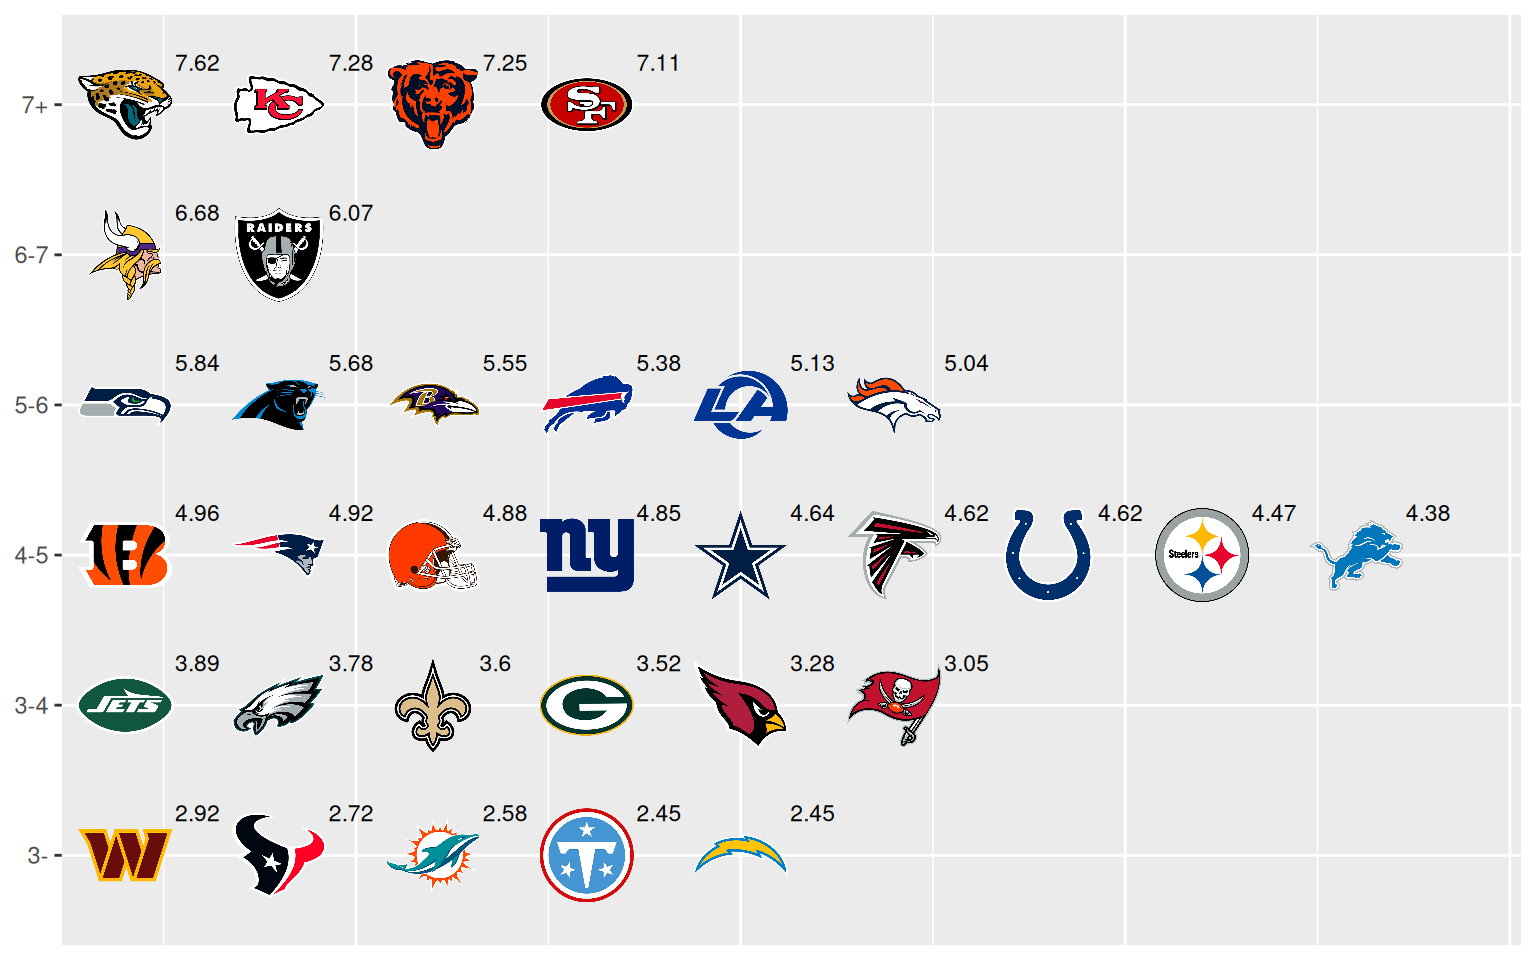
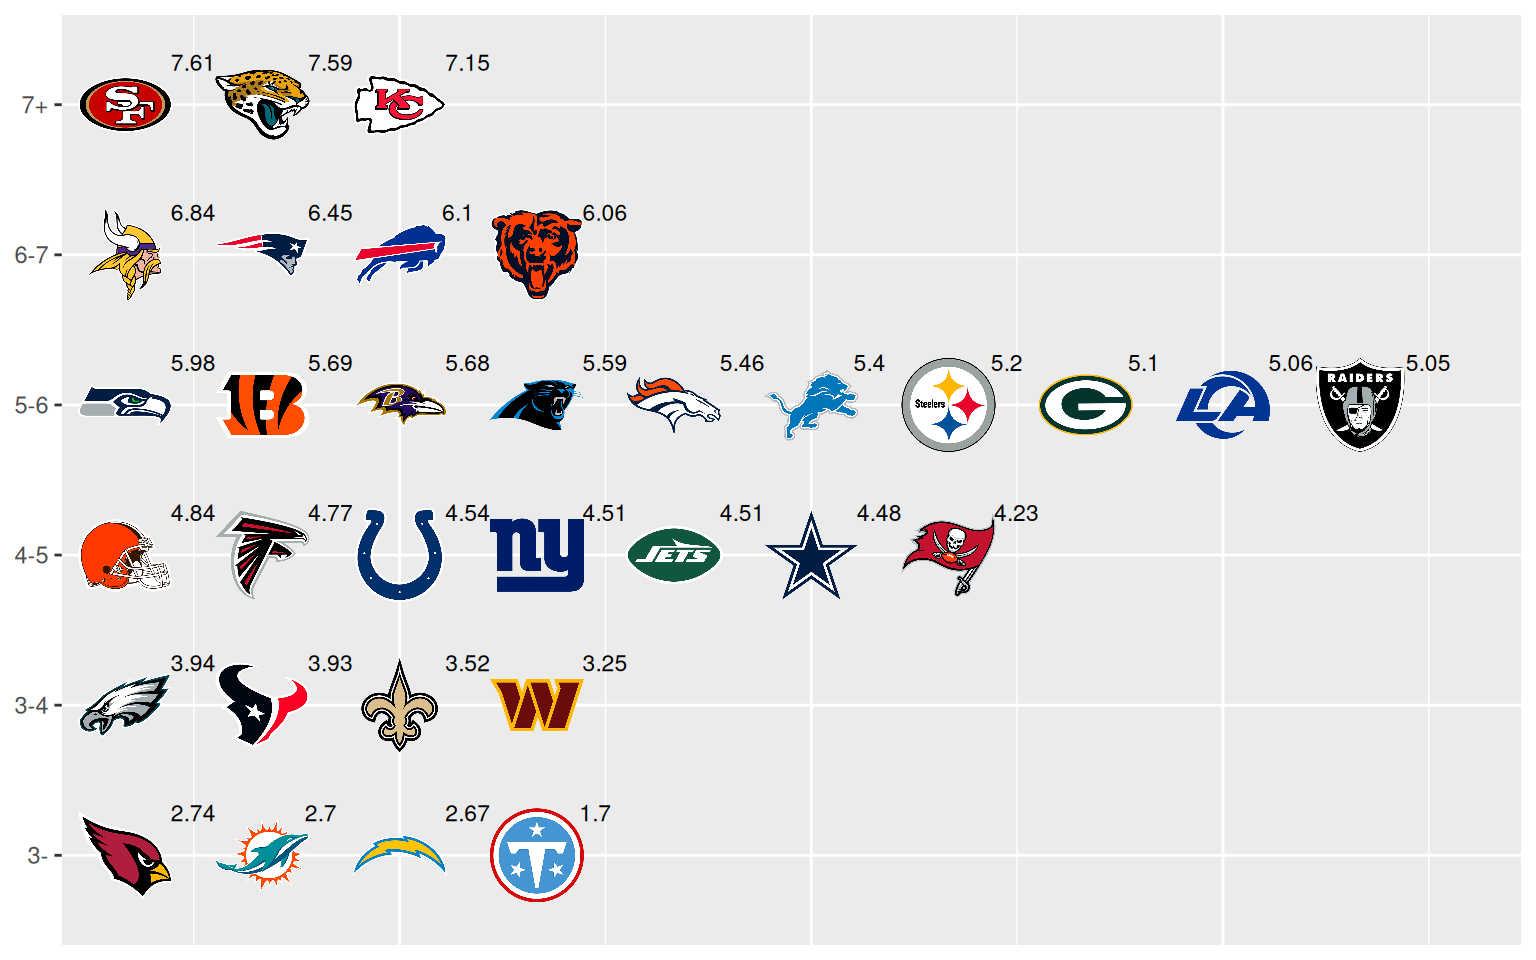
Weekly dashboard update

diff --git a/dashboard.html b/dashboard.html
@@ -104,7 +104,7 @@ grid-auto-rows: minmax(0, 1fr);">
 CURRENT WEEK
 </p>
 <p class="value-box-value">
-4
+5
 </p>
 </div>
 </div>
@@ -119,7 +119,7 @@ CURRENT WEEK
 HIGHEST RATING
 </p>
 <p class="value-box-value">
-7.62
+7.61
 </p>
 </div>
 </div>
@@ -134,7 +134,7 @@ HIGHEST RATING
 LOWEST RATING
 </p>
 <p class="value-box-value">
-2.45
+1.7
 </p>
 </div>
 </div>
@@ -149,7 +149,7 @@ LOWEST RATING
 AVERAGE RATING
 </p>
 <p class="value-box-value">
-4.73
+4.95
 </p>
 </div>
 </div>
@@ -166,8 +166,8 @@ TEAM RATINGS
 </span></div></div>
 <div class="card-body html-fill-item html-fill-container">
 <div class="cell-output-display html-fill-item html-fill-container">
-<div class="datatables html-widget html-fill-item html-fill-container" id="htmlwidget-a52734947365bf780f90" style="width:100%;height:auto;"></div>
-<script type="application/json" data-for="htmlwidget-a52734947365bf780f90">{"x":{"filter":"none","vertical":false,"data":[["1","2","3","4","5","6","7","8","9","10","11","12","13","14","15","16","17","18","19","20","21","22","23","24","25","26","27","28","29","30","31","32"],["JAX","KC","CHI","SF","MIN","LV","SEA","CAR","BAL","BUF","LA","DEN","CIN","NE","CLE","NYG","DAL","ATL","IND","PIT","DET","NYJ","PHI","NO","GB","ARI","TB","WAS","HOU","MIA","TEN","LAC"],[1.5,2,1.5,2,2,1.5,1.5,1,1.5,1.5,1,1,1,1,1.5,1.5,1,1,1,1,1,0.5,1,0.5,1,0.5,0,0.5,0,0,0,0],[1.88,1.7,1.81,2,1.59,1.52,1.54,1.19,1.33,1.33,1.01,0.62,1.19,0.76,0.73,1.03,1.15,1.04,0.9399999999999999,0.8,0.83,0.83,0.65,0.57,0.41,0.44,0.62,0.37,0.53,0,0.48,0.28],[1.89,1.83,1.67,2,0.6899999999999999,1.07,1.31,1.38,1.7,2,0.6899999999999999,0.87,1.35,0.75,1.09,0.95,2,0.7,1.21,0.7,1.82,1,0.67,0.95,0.73,0.9,0.3,0.73,0.8100000000000001,0.04,0.57,0],[1.39,1.07,1.33,0.84,2,1.71,1.49,0.89,0.73,0.39,1.41,0.65,0.91,1.08,0.62,1.09,0.14,1.45,0.79,1.01,0.05,0.91,0.85,0.43,0.62,0.47,1.14,0.51,0.44,0.54,0.6899999999999999,1.15],[0.96,0.68,0.9399999999999999,0.27,0.4,0.27,0,1.22,0.29,0.16,1.02,1.9,0.51,1.33,0.9399999999999999,0.28,0.35,0.43,0.68,0.96,0.68,0.65,0.61,1.15,0.76,0.97,0.99,0.8100000000000001,0.9399999999999999,2,0.71,1.02],[7.62,7.28,7.25,7.11,6.68,6.07,5.84,5.68,5.55,5.38,5.13,5.04,4.96,4.92,4.88,4.85,4.64,4.62,4.62,4.47,4.38,3.89,3.78,3.6,3.52,3.28,3.05,2.92,2.72,2.58,2.45,2.45]],"container":"<table class=\"display\">\n  <thead>\n    <tr>\n      <th> <\/th>\n      <th>team<\/th>\n      <th>win_pct<\/th>\n      <th>point_diff<\/th>\n      <th>off_epa<\/th>\n      <th>def_epa<\/th>\n      <th>sos<\/th>\n      <th>total<\/th>\n    <\/tr>\n  <\/thead>\n<\/table>","options":{"bPaginate":false,"dom":"ifrt","language":{"info":"Showing _TOTAL_ entries"},"columnDefs":[{"className":"dt-right","targets":[2,3,4,5,6,7]},{"orderable":false,"targets":0},{"name":" ","targets":0},{"name":"team","targets":1},{"name":"win_pct","targets":2},{"name":"point_diff","targets":3},{"name":"off_epa","targets":4},{"name":"def_epa","targets":5},{"name":"sos","targets":6},{"name":"total","targets":7}],"order":[],"autoWidth":false,"orderClasses":false}},"evals":[],"jsHooks":[]}</script>
+<div class="datatables html-widget html-fill-item html-fill-container" id="htmlwidget-3fa025734aa54d21b2e3" style="width:100%;height:auto;"></div>
+<script type="application/json" data-for="htmlwidget-3fa025734aa54d21b2e3">{"x":{"filter":"none","vertical":false,"data":[["1","2","3","4","5","6","7","8","9","10","11","12","13","14","15","16","17","18","19","20","21","22","23","24","25","26","27","28","29","30","31","32"],["SF","JAX","KC","MIN","NE","BUF","CHI","SEA","CIN","BAL","CAR","DEN","DET","PIT","GB","LA","LV","CLE","ATL","IND","NYG","NYJ","DAL","TB","PHI","HOU","NO","WAS","ARI","MIA","LAC","TEN"],[2,1.6,2,2,1.2,1.6,1.2,1.2,1.2,1.6,1,1.2,1.2,1.2,1.2,0.8,1.2,1.2,0.8,0.8,1.4,0.8,0.8,0.4,0.8,0.4,0.4,0.6,0.4,0,0,0],[2,1.87,1.67,1.74,1.27,1.38,1.38,1.48,1.32,1.45,1.2,0.78,1.27,1.04,0.88,0.99,1.06,0.7,0.96,0.78,1.06,0.96,1.04,0.8100000000000001,0.68,0.98,0.47,0.46,0.13,0,0.28,0.18],[2,1.67,1.83,0.58,1.24,2,1.22,1.05,1.5,1.67,1.38,0.61,2,1.02,0.85,0.98,1.02,0.77,0.77,1.33,1.07,0.75,1.86,0.57,0.6899999999999999,0.99,0.57,0.86,0.83,0.29,0,0.29],[1.05,1.36,1.07,2,1.1,0.31,1.17,1.55,0.89,0.77,0.89,1.13,0.33,0.85,1.06,0.97,1.13,0.93,1.23,0.57,0.98,1.22,0.22,1.21,0.89,0.87,0.73,0.54,0.18,0.41,1.39,0.59],[0.5600000000000001,1.09,0.58,0.52,1.64,0.8100000000000001,1.09,0.7,0.78,0.19,1.12,1.74,0.6,1.09,1.11,1.32,0.64,1.24,1.01,1.06,0,0.78,0.5600000000000001,1.24,0.88,0.6899999999999999,1.35,0.79,1.2,2,1,0.64],[7.61,7.59,7.15,6.84,6.45,6.1,6.06,5.98,5.69,5.68,5.59,5.46,5.4,5.2,5.1,5.06,5.05,4.84,4.77,4.54,4.51,4.51,4.48,4.23,3.94,3.93,3.52,3.25,2.74,2.7,2.67,1.7]],"container":"<table class=\"display\">\n  <thead>\n    <tr>\n      <th> <\/th>\n      <th>team<\/th>\n      <th>win_pct<\/th>\n      <th>point_diff<\/th>\n      <th>off_epa<\/th>\n      <th>def_epa<\/th>\n      <th>sos<\/th>\n      <th>total<\/th>\n    <\/tr>\n  <\/thead>\n<\/table>","options":{"bPaginate":false,"dom":"ifrt","language":{"info":"Showing _TOTAL_ entries"},"columnDefs":[{"className":"dt-right","targets":[2,3,4,5,6,7]},{"orderable":false,"targets":0},{"name":" ","targets":0},{"name":"team","targets":1},{"name":"win_pct","targets":2},{"name":"point_diff","targets":3},{"name":"off_epa","targets":4},{"name":"def_epa","targets":5},{"name":"sos","targets":6},{"name":"total","targets":7}],"order":[],"autoWidth":false,"orderClasses":false}},"evals":[],"jsHooks":[]}</script>
 </div>
 </div>
 <bslib-tooltip placement="auto" bsoptions="[]" data-require-bs-version="5" data-require-bs-caller="tooltip()">
